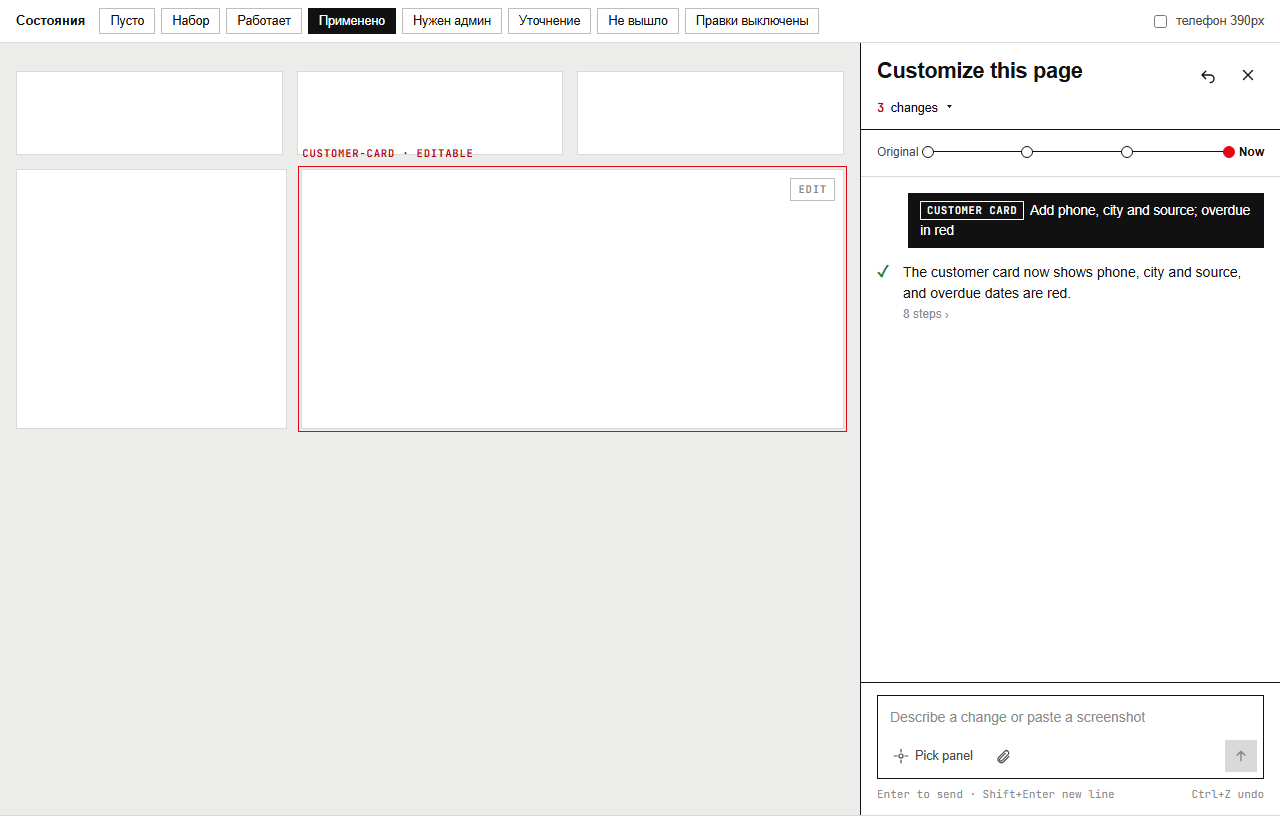
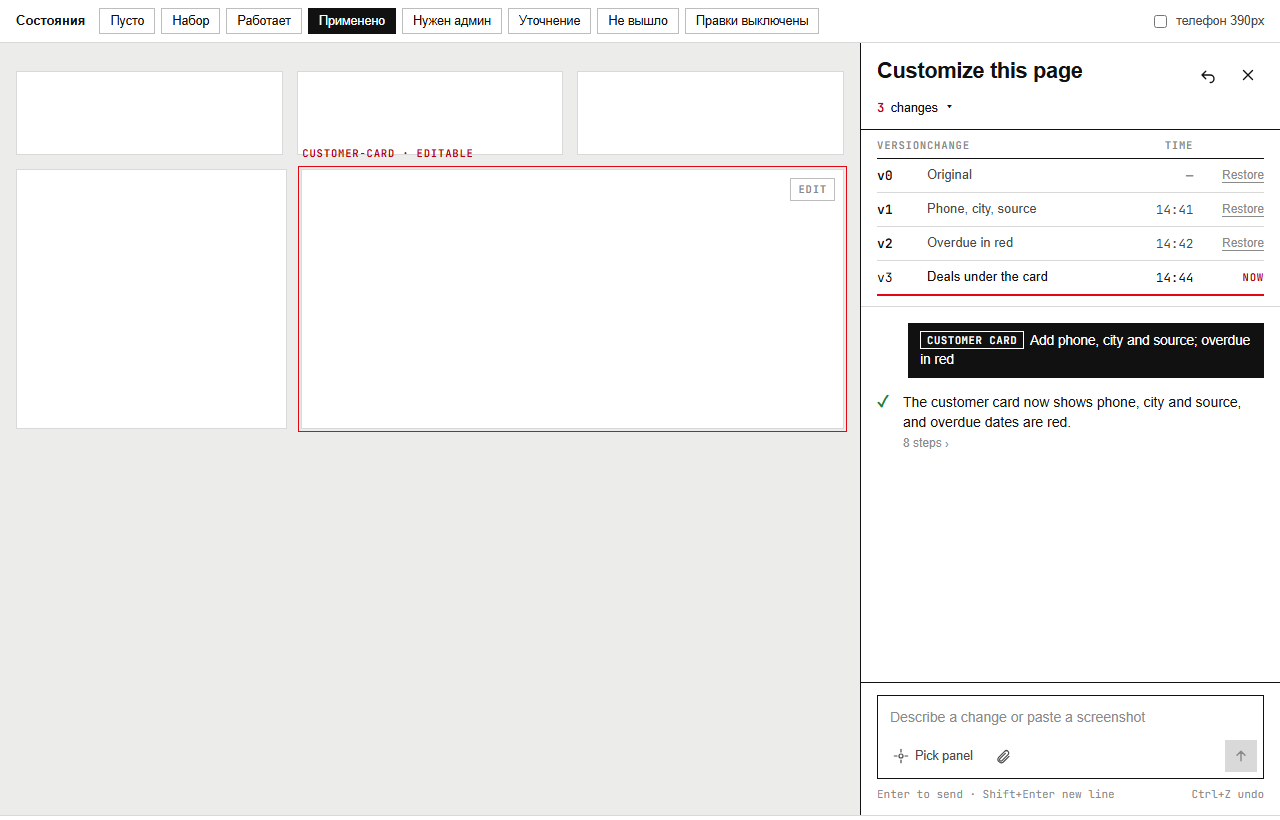
Prototype: version history as an SBB-style timetable; decision 61

Changed region(s): [[0.6875, 0.1524, 1.0, 0.5488], [0.9062, 0.1524, 0.9375, 0.1829]]

diff --git a/docs/prototypes/drawer-swiss.html b/docs/prototypes/drawer-swiss.html
@@ -57,17 +57,19 @@
   .ico.close { grid-column: 4; }
   .head.undone .ico.redo { display: grid; }
 
-  /* version ruler (shown when history open) */
-  .ruler { display: none; grid-template-columns: auto 1fr auto; align-items: center; gap: 10px; padding: 10px 16px 12px; border-bottom: 1px solid var(--rule); }
-  .ruler.open { display: grid; }
-  .ruler .lbl { font: 500 12px var(--sans); color: var(--ink-2); }
-  .ruler .lbl.now { color: var(--ink); font-weight: 700; }
-  .ruler .track { position: relative; height: 24px; }
-  .ruler .track::before { content: ""; position: absolute; left: 0; right: 0; top: 11px; border-top: 1px solid var(--ink); }
-  .ruler .dot { position: absolute; top: 6px; width: 12px; height: 12px; border: 1.5px solid var(--ink); background: var(--paper); border-radius: 50%; transform: translateX(-50%); cursor: pointer; padding: 0; }
-  .ruler .dot.cur { background: var(--red); border-color: var(--red); }
-  .ruler .dot:hover { background: var(--ink); }
-  .ruler .dot[data-tip]:hover::after { content: attr(data-tip); position: absolute; left: 50%; transform: translateX(-50%); top: 18px; white-space: nowrap; background: var(--ink); color: var(--paper); font: 500 11px var(--sans); padding: 3px 7px; z-index: 3; }
+  /* version history as a timetable (SBB-style: tabular columns, hairlines, the current row marked) */
+  .ruler { display: none; padding: 0 16px 10px; border-bottom: 1px solid var(--rule); }
+  .ruler.open { display: block; }
+  .tt { width: 100%; border-collapse: collapse; font-size: 13px; font-variant-numeric: tabular-nums; }
+  .tt th { text-align: left; font: 600 10.5px var(--mono); letter-spacing: .08em; text-transform: uppercase; color: var(--ink-3); padding: 8px 0 6px; border-bottom: 1px solid var(--ink); }
+  .tt td { padding: 7px 0; border-bottom: 1px solid var(--rule); color: var(--ink-2); }
+  .tt .r { text-align: right; }
+  .tt .v { font: 700 13px var(--mono); color: var(--ink); width: 36px; }
+  .tt .t { font: 500 12.5px var(--mono); }
+  .tt tr.now td { color: var(--ink); font-weight: 500; border-bottom: 2px solid var(--red); }
+  .tt .here { font: 700 10.5px var(--mono); letter-spacing: .08em; text-transform: uppercase; color: var(--red-ink); }
+  .tt .go { font: 500 12px var(--sans); border: 0; background: transparent; color: var(--ink-3); cursor: pointer; padding: 0; text-decoration: underline; text-underline-offset: 3px; border-radius: 0; }
+  .tt .go:hover { color: var(--ink); }
 
   .feed { flex: 1; overflow-y: auto; padding: 16px; display: flex; flex-direction: column; gap: 14px; }
   .hint { color: var(--ink-2); font-size: 13.5px; max-width: 36ch; }
@@ -166,14 +168,15 @@
     </header>
 
     <div class="ruler" id="ruler" aria-label="Version history">
-      <span class="lbl">Original</span>
-      <div class="track">
-        <button class="dot" style="left:0" data-tip="Original" aria-label="Back to original"></button>
-        <button class="dot" style="left:33%" data-tip="Phone, city, source · 2:41"></button>
-        <button class="dot" style="left:66%" data-tip="Overdue in red · 2:42"></button>
-        <button class="dot cur" style="left:100%" data-tip="Deals under the card · 2:44" aria-current="true"></button>
-      </div>
-      <span class="lbl now">Now</span>
+      <table class="tt">
+        <thead><tr><th>Version</th><th>Change</th><th class="r">Time</th><th class="r"></th></tr></thead>
+        <tbody>
+          <tr><td class="v">v0</td><td>Original</td><td class="r t">—</td><td class="r"><button class="go" aria-label="Back to original">Restore</button></td></tr>
+          <tr><td class="v">v1</td><td>Phone, city, source</td><td class="r t">14:41</td><td class="r"><button class="go">Restore</button></td></tr>
+          <tr><td class="v">v2</td><td>Overdue in red</td><td class="r t">14:42</td><td class="r"><button class="go">Restore</button></td></tr>
+          <tr class="now" aria-current="true"><td class="v">v3</td><td>Deals under the card</td><td class="r t">14:44</td><td class="r"><span class="here">now</span></td></tr>
+        </tbody>
+      </table>
     </div>
 
     <div class="feed">
@@ -232,6 +235,7 @@
   </div>
   <div><h2>Что от швейцарского плаката</h2>
     <p>Флаговая верстка, одна гарнитура, жирный заголовок, чёрные линейки как структура, никаких скруглений и теней.</p>
+    <p><b>От швейцарского расписания (SBB):</b> история версий как таблица расписания: колонка версии, что изменилось, время табличными цифрами, текущая строка подчёркнута красным, «Restore» вместо кнопок.</p>
     <p>Один красный: только текущая версия и кнопка отправки. Всё остальное чёрное и серое.</p>
     <p>Выделение зоны на странице: красная рамка с подписью в моноширинном и кнопка EDIT в углу панели, видна при наведении.</p>
   </div>
@@ -284,7 +288,6 @@
     if ((e.ctrlKey || e.metaKey) && e.key.toLowerCase() === 'z' && !inField) { e.preventDefault(); if (e.shiftKey) document.querySelector('.ico.redo').click(); else undo.click(); }
   });
   Array.prototype.slice.call(document.querySelectorAll('.chip')).forEach(function (c) { c.addEventListener('click', function () { setState('typing'); ta.value = c.textContent; autosize(); send.classList.add('active'); }); });
-  Array.prototype.slice.call(document.querySelectorAll('.ruler .dot')).forEach(function (d) { d.addEventListener('click', function () { Array.prototype.slice.call(document.querySelectorAll('.ruler .dot')).forEach(function (x) { x.classList.remove('cur'); x.removeAttribute('aria-current'); }); d.classList.add('cur'); d.setAttribute('aria-current', 'true'); }); });
   setState('empty');
 })();
 </script>
